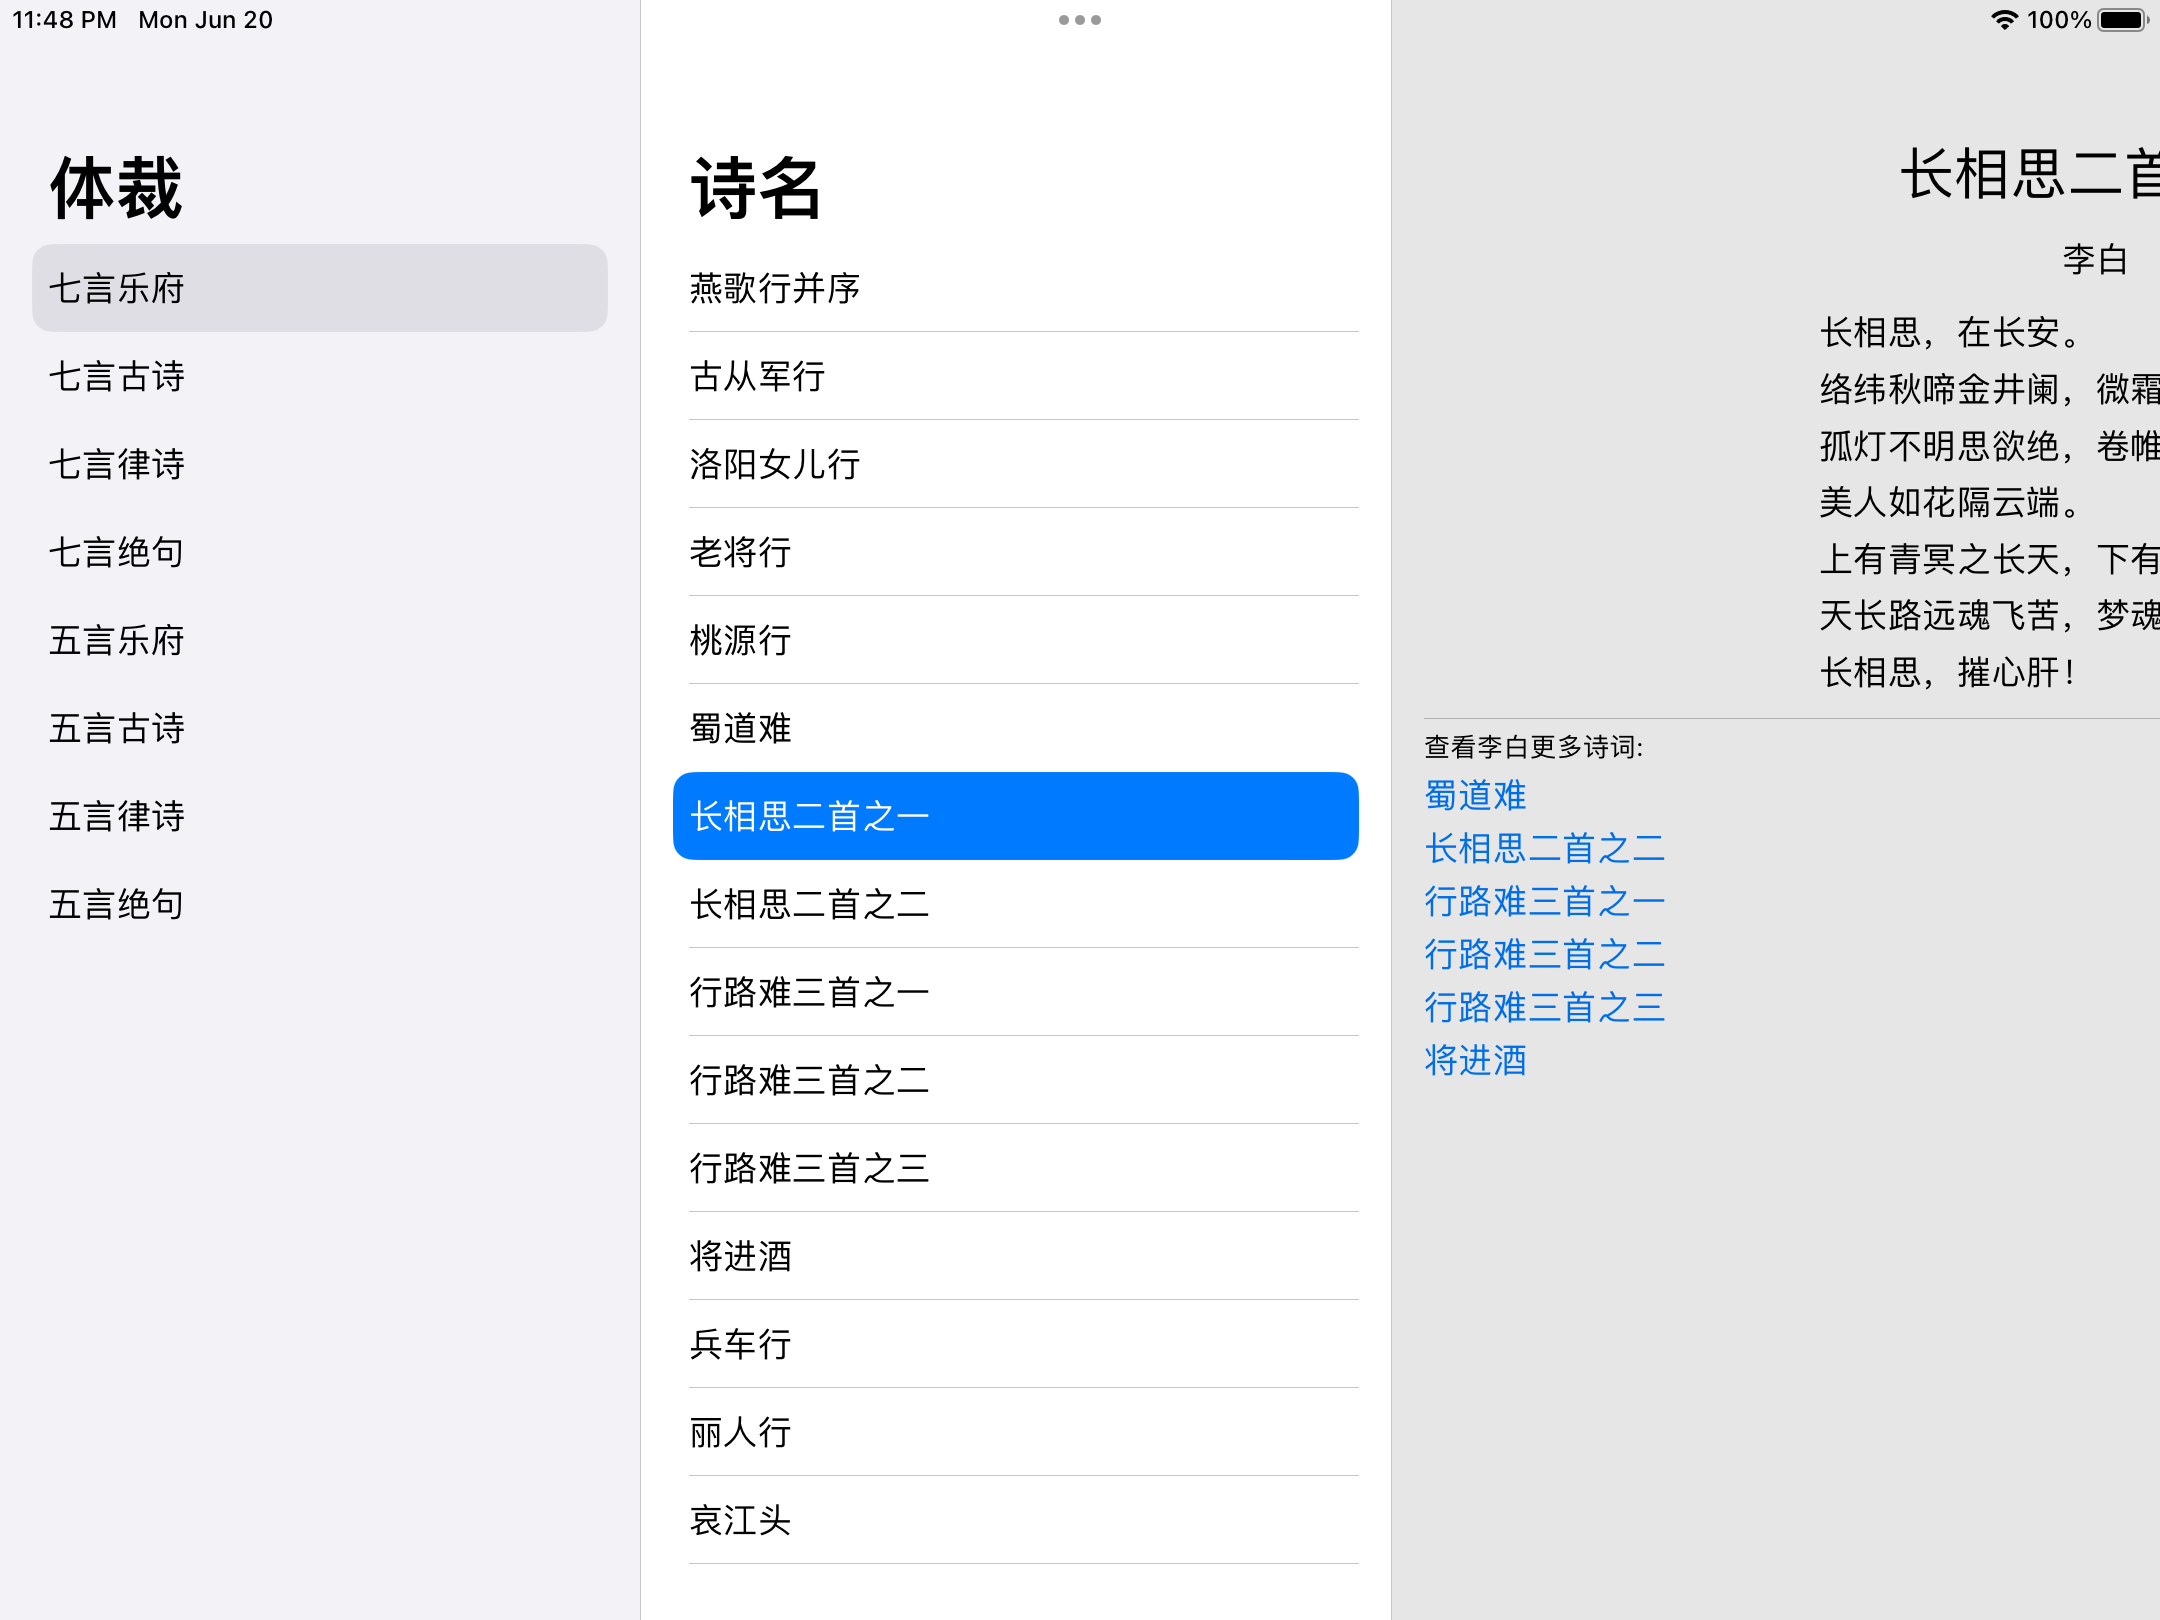
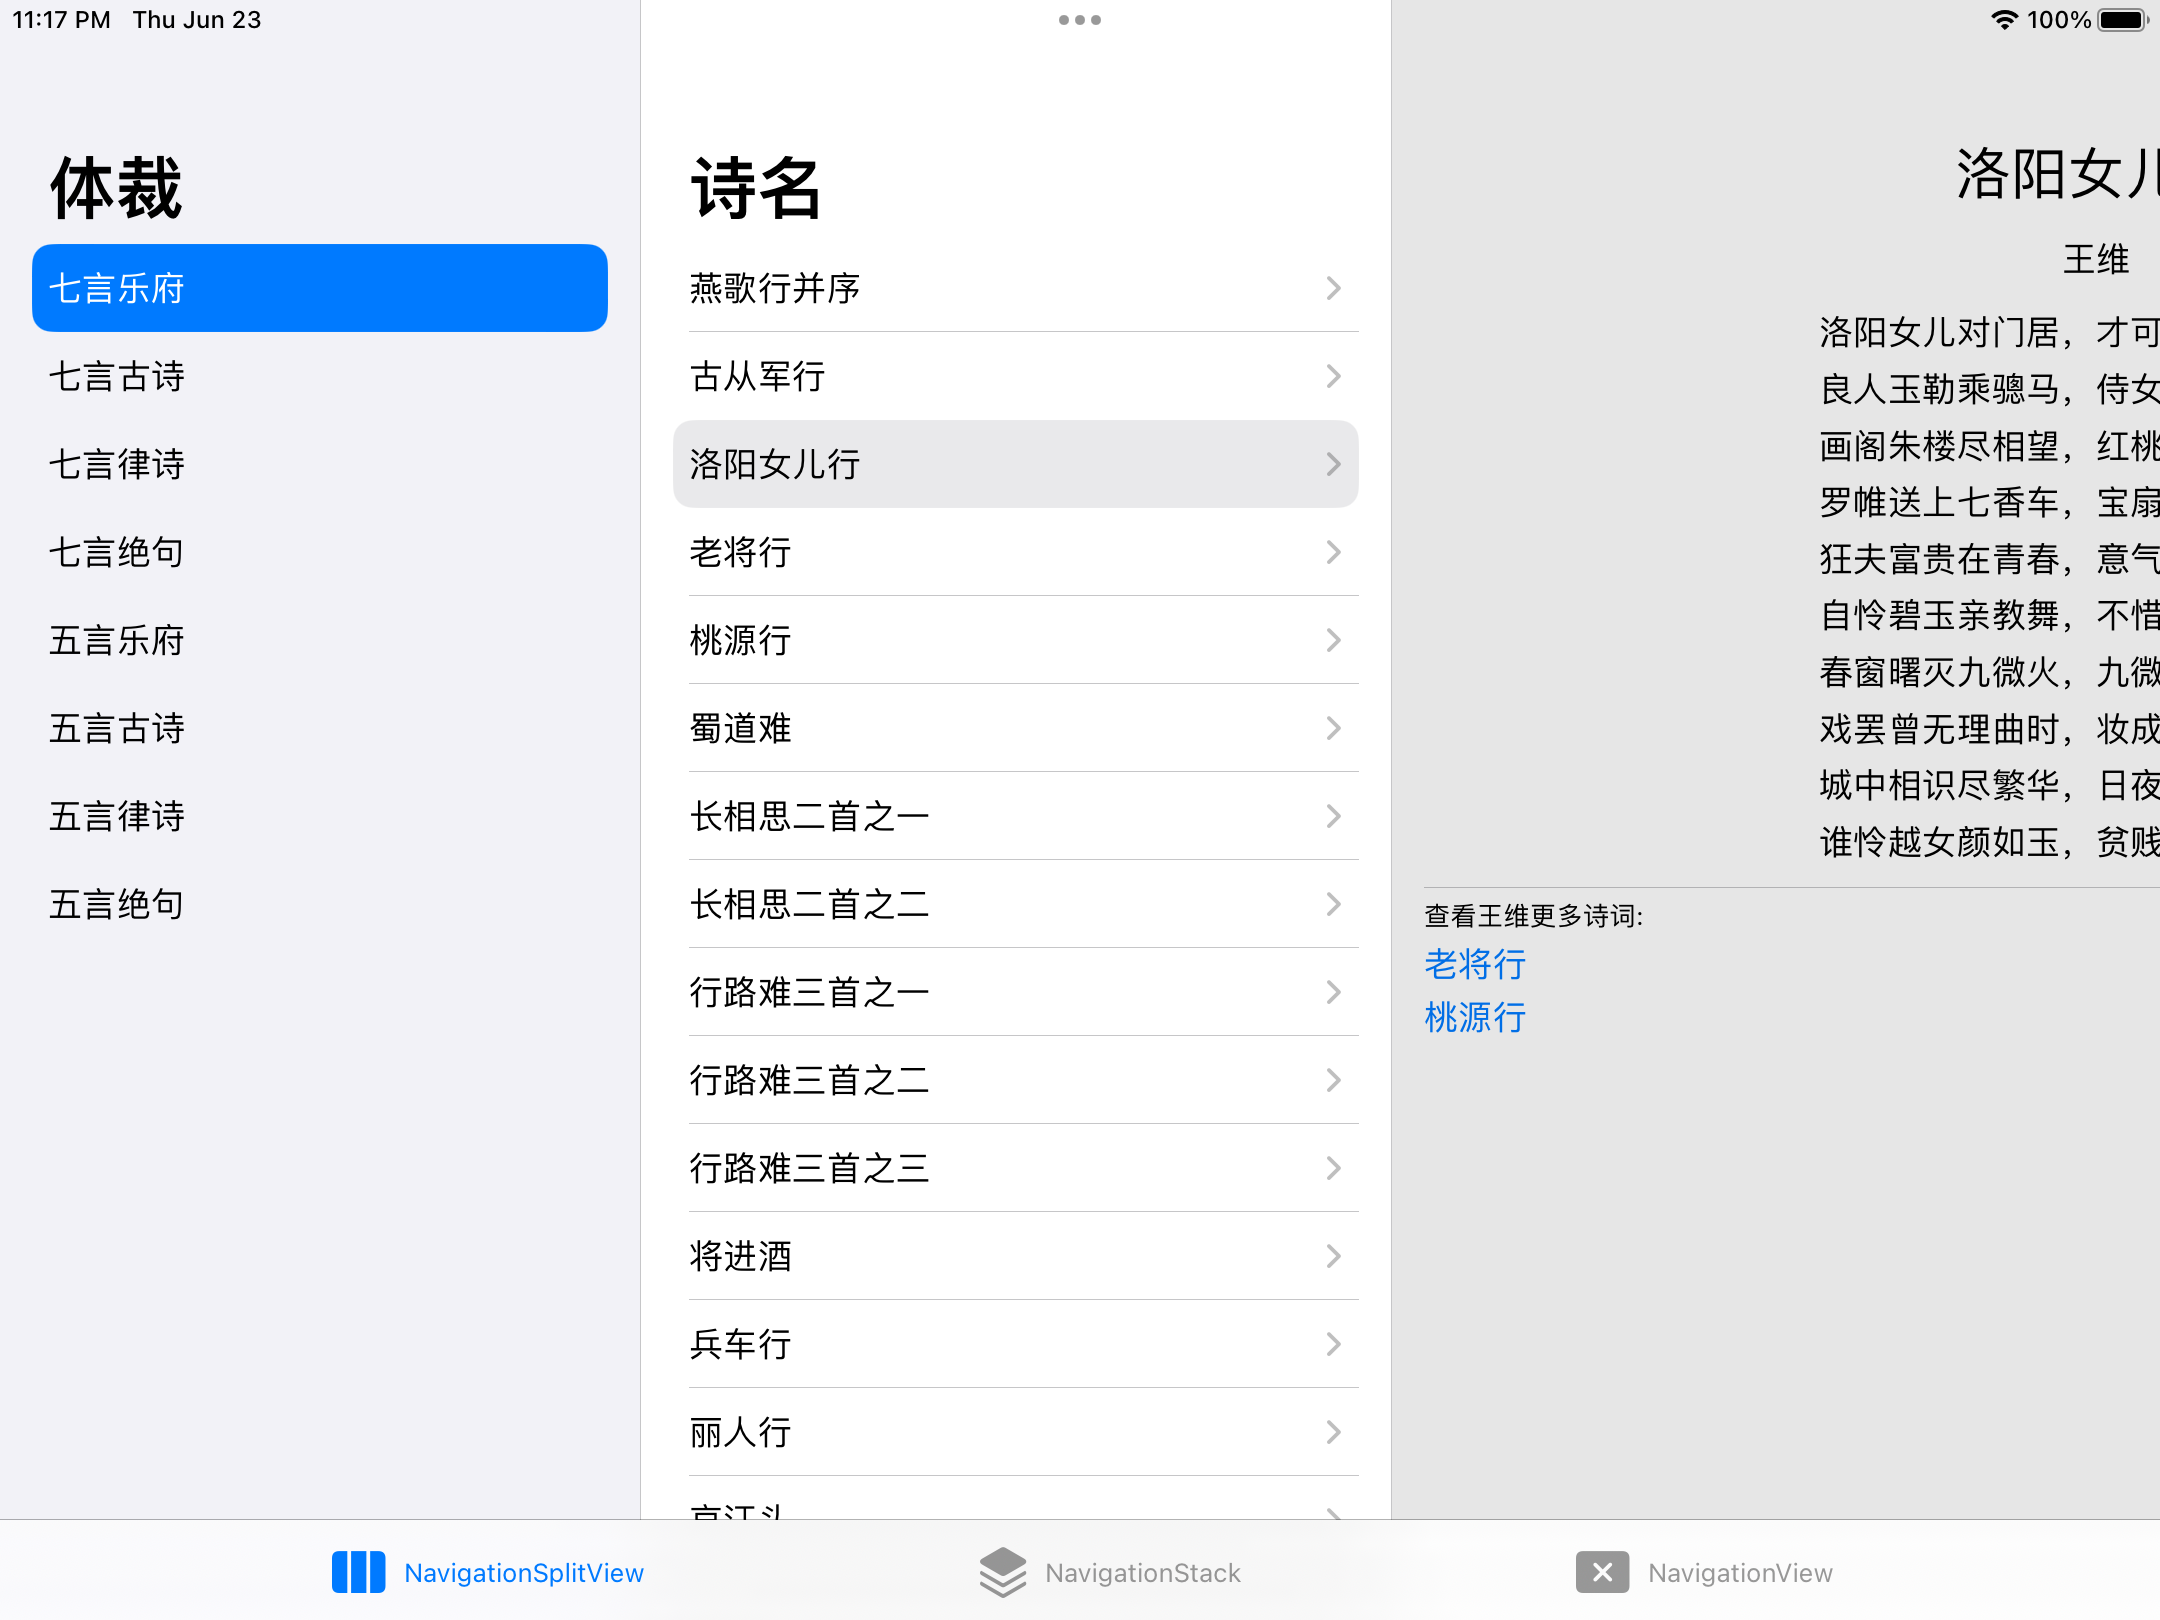
feat[10054]: Revise some words

diff --git a/WWDC22/sessions/session_10054/OTHER.md b/WWDC22/sessions/session_10054/OTHER.md
@@ -2,9 +2,7 @@ ps. 这里补充其他信息。请严格按照以下格式填写。
 
 ## 个人介绍
 
-要求待补充...
-要求待补充...
-要求待补充...
+zddhub(张东东)，iOS 开发，开源爱好者。
 
 ## 审核介绍
 
@@ -14,9 +12,7 @@ ps. 这里补充其他信息。请严格按照以下格式填写。
 
 ## 不超过 120 个字的文章简介
 
-要求待补充...
-要求待补充...
-要求待补充...
+这篇文章详细讲述了 SwiftUI 现有导航方案的不足，以及新方案的解决方案，并给出了一些新方案的适用场景和建议。全文通过一个真实的例子，来展示、验证文中提到的技术。
 
 ## 公众号/小专栏图文头图
 